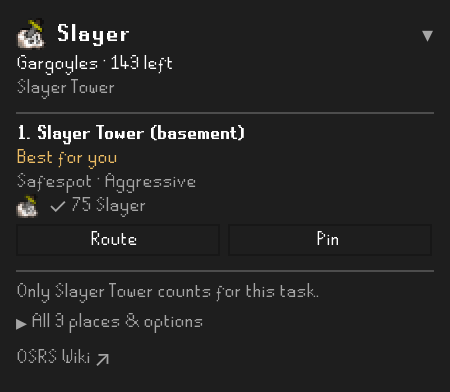
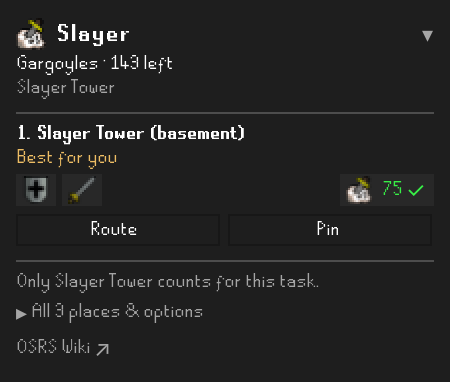
Draw a Slayer place's labels and level as pictures on one row
A place's labels were a sentence joined by dots, "Multi · best with an area attack · Cannon ·
Aggressive", and under it "✓ 92 Slayer" on a line of its own: three grey lines that every place
repeated, so comparing six places meant reading six sentences.

Each label is a chip now, a small picture on one row, and its tip says the label in full, reason
and all. Multi is the game's multi-combat swords and Cannon a cannon's barrels. The game has no
picture of its own for a safespot or for aggression, so those borrow the Defence skill's shield
and the Attack skill's sword until something better is drawn. Wilderness stays a word, in the
sidebar's pink. Unknown, the wiki not saying whether a place is multi-combat or takes a cannon,
has no chip: it marks nothing a player can use.

A chip is its word until its picture arrives, so a picture the client cannot give leaves the word
and never an empty box; with the picture it keeps only "in part" or "maybe", which a picture
cannot say.

A level a place asks for is a chip at the right of the same row: the skill's icon, the level, and
a tick in green, a cross in the refusal pink, or a question mark where the map could not confirm
it. The tip keeps the words the line had, "Needs 75 Slayer". A closed place still shows only what
it has yet to meet, and a quest or an item keeps its line under the row.

The Hub page's Slayer picture and the pass's own two are painted again. The renderer stands the
[…]

diff --git a/src/test/java/com/pbolduc/mapcompanion/SlayerCardTest.java b/src/test/java/com/pbolduc/mapcompanion/SlayerCardTest.java
@@ -296,9 +296,13 @@ public class SlayerCardTest
 		press("▸ All 3 places & options");
 		List<String> list = shown(panel);
 		assertEquals(list.toString(), 1, java.util.Collections.frequency(list, "Route"));
-		assertEquals(list.toString(), 1, java.util.Collections.frequency(list, "✓ 75 Slayer"));
+		/* The level it asks is a chip on the labels' row: the level and a tick, the skill left to its icon. */
+		assertEquals(list.toString(), 1, java.util.Collections.frequency(list, "75 ✓"));
+		assertEquals("✓ 75 Slayer", chip("75 ✓").getToolTipText());
+		assertEquals(net.runelite.client.ui.ColorScheme.PROGRESS_COMPLETE_COLOR, chip("75 ✓").getForeground());
+		assertTrue("after the labels, on their row: " + list, list.indexOf("75 ✓") == list.indexOf("Aggressive") + 1);
 		assertTrue(list.toString(), list.indexOf("Route") < list.indexOf("▸ 2. Slayer Tower (top floor)"));
-		assertTrue("a closed place keeps its labels: " + list, list.indexOf("Safespot · Aggressive") < list.lastIndexOf("Safespot · Aggressive"));
+		assertEquals("a closed place keeps its labels: " + list, 2, java.util.Collections.frequency(list, "Safespot"));
 
 		press("▸ 3. Slayer Tower (roof)");
 		List<String> roof = shown(panel);
@@ -317,6 +321,54 @@ public class SlayerCardTest
 	}
 
 	/**
+	 * A place's labels are chips, one each, rather than a sentence joined by dots, and a chip's tip
+	 * says its label in full. A chip is its word until its picture arrives, so a picture the client
+	 * cannot give leaves the word; with the picture it keeps no word, and a reason after a dot, "the
+	 * wiki's rate names no area attack", is the tip's to say on the open place as on a closed one.
+	 */
+	@Test
+	public void aPlacesLabelsAreChipsThatGiveTheirWordUpForAPicture() throws Exception
+	{
+		state.local(identity.id(), gargoyles(), "best", true);
+		received(places("best"), 1);
+		refresh();
+		press("▸ All 3 places & options");
+		press("▸ 3. Slayer Tower (roof)");
+		List<String> list = shown(panel);
+		assertTrue("no picture here, so every chip is its word: " + list, list.containsAll(Arrays.asList("Safespot", "Aggressive", "Multi")));
+		assertFalse("no dotted sentence is left: " + list, list.contains("Safespot · Aggressive"));
+		assertFalse(list.toString(), list.contains("The wiki's rate names no area attack"));
+		JLabel multi = chip("Multi");
+		assertEquals("Multi · the wiki's rate names no area attack", multi.getToolTipText());
+
+		SwingUtilities.invokeAndWait(() -> multi.setIcon(new javax.swing.ImageIcon(new java.awt.image.BufferedImage(1, 1, 2))));
+		assertEquals("the picture says it", "", multi.getText());
+		assertEquals("Multi · the wiki's rate names no area attack", multi.getToolTipText());
+	}
+
+	/**
+	 * "Unknown" is the wiki not saying whether a place is multi-combat, takes a cannon or has a
+	 * safespot. It marks nothing a player can use, so it gets no chip, and a place with no other
+	 * label gets no row of chips at all.
+	 */
+	@Test
+	public void anUnknownLabelGetsNoChip() throws Exception
+	{
+		RelayResponse.SlayerOptions places = places("best");
+		places.rows.get(0).labels = Arrays.asList("Aggressive", "Unknown");
+		places.rows.get(1).labels = Arrays.asList("Unknown");
+		state.local(identity.id(), gargoyles(), "best", true);
+		received(places, 1);
+		refresh();
+		press("▸ All 3 places & options");
+		List<String> list = shown(panel);
+		assertFalse(list.toString(), list.contains("Unknown"));
+		assertTrue(list.toString(), list.contains("Aggressive"));
+		assertEquals("the second place goes straight on to the third: " + list,
+			list.indexOf("▸ 2. Slayer Tower (top floor)") + 1, list.indexOf("▸ 3. Slayer Tower (roof)"));
+	}
+
+	/**
 	 * A name too long for the card's one line breaks before its last two words, which are what tell
 	 * one room of a cave from the next; left to wrap, one row ended "room" and its neighbour
 	 * "eastern room". A name that fits is left whole.
@@ -332,6 +384,32 @@ public class SlayerCardTest
 		assertTrue("still escaped", SlayerPanel.named("1. <b>x</b> y", metrics).contains("&lt;b&gt;"));
 	}
 
+	/** The chip that reads {@code word}, among what is shown. */
+	private JLabel chip(String word)
+	{
+		return chip(panel, word);
+	}
+
+	private static JLabel chip(Component component, String word)
+	{
+		if (component instanceof JLabel && word.equals(((JLabel) component).getText()) && component.isVisible())
+		{
+			return (JLabel) component;
+		}
+		if (component instanceof Container)
+		{
+			for (Component child : ((Container) component).getComponents())
+			{
+				JLabel found = chip(child, word);
+				if (found != null)
+				{
+					return found;
+				}
+			}
+		}
+		return null;
+	}
+
 	/**
 	 * A place that still asks for something says so while it is closed, since that is why its name is
 	 * grey; what a place asks and the player has waits for the open one.
@@ -345,7 +423,10 @@ public class SlayerCardTest
 		press("▸ All 3 places & options");
 		List<String> list = shown(panel);
 		assertTrue(list.toString(), list.contains("▸ 2. Slayer Tower (top floor)"));
-		assertEquals("on the open place and both closed ones: " + list, 3, java.util.Collections.frequency(list, "Needs 75 Slayer"));
+		/* A cross in the refusal pink beside the level, and the words it replaced as the tip. */
+		assertEquals("on the open place and both closed ones: " + list, 3, java.util.Collections.frequency(list, "75 ✗"));
+		assertEquals("Needs 75 Slayer", chip("75 ✗").getToolTipText());
+		assertEquals(MapCompanionPanel.REFUSED, chip("75 ✗").getForeground());
 	}
 
 	/**

diff --git a/src/main/java/com/pbolduc/mapcompanion/SlayerPanel.java b/src/main/java/com/pbolduc/mapcompanion/SlayerPanel.java
@@ -33,6 +33,8 @@ import java.util.*;
 import java.util.List;
 import javax.swing.*;
 import net.runelite.api.coords.WorldPoint;
+import net.runelite.api.gameval.ItemID;
+import net.runelite.api.gameval.SpriteID;
 import net.runelite.client.callback.ClientThread;
 import net.runelite.client.ui.ColorScheme;
 import net.runelite.client.util.LinkBrowser;
@@ -348,31 +350,100 @@ final class SlayerPanel extends JPanel
 		{
 			body.add(line(String.join(" · ", spot.kinds), MUTED));
 		}
-		if (!spot.labels.isEmpty())
-		{
-			body.add(line(String.join(" · ", spot.labels), MUTED));
-		}
+		Box row = chips(spot.labels);
+		/*
+		 * A level a place asks for is a chip at the row's right: the skill's icon, the level, and a
+		 * tick in green, a cross in the refusal pink or a question mark; the icon names the skill, and
+		 * the tip says it in words. What a place still asks is why it is grey, so a closed one says
+		 * it; what is met waits for the open one. A quest or an item has no icon, and keeps its line.
+		 */
+		row.add(Box.createHorizontalGlue());
+		List<JLabel> lines = new ArrayList<>();
 		for (RelayResponse.SlayerAsk ask : spot.asks)
 		{
-			/* What a place still asks is why it is grey, so a closed one says it; what is met waits for the open one. */
-			if (!opened && !"unmet".equals(ask.tier))
+			boolean unmet = "unmet".equals(ask.tier);
+			boolean unknown = "unknown".equals(ask.tier);
+			if (!opened && !unmet)
 			{
 				continue;
 			}
-			String words = ("unmet".equals(ask.tier) ? "Needs " : "unknown".equals(ask.tier) ? "Unconfirmed: " : "✓ ") + ask.text;
-			JLabel requirement = line(words,
-									  "unmet".equals(ask.tier) ? MapCompanionPanel.REFUSED : MUTED);
-			if (ask.skill != null)
+			String words = (unmet ? "Needs " : unknown ? "Unconfirmed: " : "✓ ") + ask.text;
+			if (ask.skill == null)
 			{
-				MapCompanionPanel.setWrapped(requirement, words, WIDTH - 16);
-				sprites.skill(requirement, ask.skill, 12);
+				lines.add(line(words, unmet ? MapCompanionPanel.REFUSED : MUTED));
+				continue;
 			}
-			body.add(requirement);
+			JLabel chip = pill(ask.text.replace(" " + ask.skill, "") + (unmet ? " ✗" : unknown ? " ?" : " ✓"),
+				unmet ? MapCompanionPanel.REFUSED : unknown ? MUTED : ColorScheme.PROGRESS_COMPLETE_COLOR, words);
+			sprites.skill(chip, ask.skill, 14);
+			row.add(Box.createHorizontalStrut(3));
+			row.add(chip);
 		}
+		if (row.getComponentCount() > 1)
+		{
+			body.add(MapCompanionPanel.left(row));
+		}
+		lines.forEach(body::add);
 		if (opened)
 		{
 			actions(spot.id, spot.id, spot.target, spot.name);
 		}
+	}
+
+	/**
+	 * A place's labels as chips, so six places are compared at a glance and not by reading six
+	 * sentences: one small picture each on a row, its label in full as its tip. Multi is the game's
+	 * multi-combat swords and Cannon a cannon's barrels. The game has no picture of its own for a
+	 * safespot or for aggression, so those borrow one: the Defence skill's shield and the Attack
+	 * skill's sword. Wilderness is its word in the sidebar's pink, as a Wilderness star site is.
+	 * Unknown, the wiki not saying whether a place is multi-combat or takes a cannon, has no chip: it
+	 * marks nothing a player can use, and the place's other chips say what is known.
+	 *
+	 * <p>A chip is its word until its picture arrives, so a picture the client cannot give leaves
+	 * the word and never an empty box. Then it keeps only what the picture cannot say, "in part" or
+	 * "maybe"; a reason after a dot, "best with an area attack", is left to the tip.
+	 */
+	private Box chips(List<String> labels)
+	{
+		Box row = Box.createHorizontalBox();
+		row.setBorder(BorderFactory.createEmptyBorder(2, 0, 1, 0));
+		for (String label : labels)
+		{
+			String word = label.split(" ")[0];
+			if ("Unknown".equals(word))
+			{
+				continue;
+			}
+			JLabel chip = pill(word, "Wilderness".equals(word) ? MapCompanionPanel.REFUSED : MUTED, label);
+			chip.addPropertyChangeListener("icon", e -> chip.setText(label.contains(" · ") ? "" : label.substring(word.length()).trim()));
+			if ("Multi".equals(word))
+			{
+				sprites.sprite(chip, SpriteID.OVERLAY_MULTIWAY, 14);
+			}
+			else if ("Cannon".equals(word))
+			{
+				sprites.item(chip, ItemID.TWPART3, 14);
+			}
+			else if ("Safespot".equals(word) || "Aggressive".equals(word))
+			{
+				sprites.skill(chip, "Safespot".equals(word) ? "Defence" : "Attack", 14);
+			}
+			row.add(chip);
+			row.add(Box.createHorizontalStrut(3));
+		}
+		return row;
+	}
+
+	/** A chip: a few words or a picture on the lighter grey, with what it means as its tip. */
+	private static JLabel pill(String text, Color ink, String tip)
+	{
+		JLabel chip = MapCompanionPanel.label(11f, ink);
+		chip.setText(text);
+		chip.setToolTipText(tip);
+		chip.setOpaque(true);
+		chip.setBackground(ColorScheme.DARK_GRAY_COLOR);
+		chip.setBorder(BorderFactory.createEmptyBorder(1, 3, 1, 3));
+		return chip;
 	}
 
 	/**

diff --git a/docs/review-evidence/sidebar-polish-2026-10-29/Sprites.java b/docs/review-evidence/sidebar-polish-2026-10-29/Sprites.java
@@ -41,6 +41,7 @@ final class Sprites
 		ITEMS.put(4151, "abyssal-whip");
 		ITEMS.put(net.runelite.api.gameval.ItemID.LUNAR_TABLET_CATHERBY_TELEPORT, "catherby-teleport-tablet");
 		ITEMS.put(net.runelite.api.gameval.ItemID.MYSTIC_ROBE_BOTTOM_DARK, "mystic-robe-bottom-dark");
+		ITEMS.put(net.runelite.api.gameval.ItemID.TWPART3, "cannon-barrels");
 		SPELLS.put(net.runelite.api.gameval.SpriteID.Magicon2.LUMBRIDGE_HOME_TELEPORT, "home-teleport");
 		SPELLS.put(net.runelite.api.gameval.SpriteID.MagicNecroOn.DRAYNOR_MANOR_TELEPORT, "draynor-manor-teleport");
 		CHIPS.put(net.runelite.api.gameval.ItemID.NZONE_TELETAB_RIMMINGTON, "teleport-tab-rimmington");
@@ -87,8 +88,12 @@ final class Sprites
 					show(label, star, box);
 					return;
 				}
-				/* The combat tab's crossed swords is the one sprite the website keeps under a name of its own. */
+				/*
+				 * The combat tab's crossed swords is the one sprite the website keeps under a name of its own.
+				 * It also stands in for the multi-combat zone's swords, which the website has no copy of.
+				 */
 				show(label, read(root, spriteId == net.runelite.api.gameval.SpriteID.SideIcons.COMBAT
+					|| spriteId == net.runelite.api.gameval.SpriteID.OVERLAY_MULTIWAY
 					? "osrs-icons/1x/skill-combat.png" : SPELLS.containsKey(spriteId)
 					? "osrs-icons/1x/" + SPELLS.get(spriteId) + ".png" : "osrs-icons/cache/" + spriteId + ".png"), box);
 			}

diff --git a/docs/sidebar-layout.md b/docs/sidebar-layout.md
@@ -1051,6 +1051,33 @@ opens Best for you again, so a card never shows a place with no Route.
 The labels stay on a closed place because they are what a player compares places by, *Safespot*
 against *Cannon*. Hiding them made a shorter list that had to be opened row by row to be read.
 
+### Labels as pictures
+
+A place's labels were a sentence joined by dots, *Multi · best with an area attack · Cannon ·
+Aggressive*, two lines of grey that six places repeated. Each label is a chip now, a small picture
+on the lighter grey, all on one row, and its tip says the label in full. The owner asked for the
+pictures without their words, with the tip for whoever wants them.
+
+*Multi* is the game's multi-combat swords (`SpriteID.OVERLAY_MULTIWAY`) and *Cannon* a cannon's
+barrels (`ItemID.TWPART3`). The game has no picture of its own for a safespot or for aggression,
+so those borrow one until something better is drawn: the Defence skill's shield and the Attack
+skill's sword. *Wilderness* stays a word, in the sidebar's pink, as a Wilderness star site is.
+*Unknown*, the wiki not saying whether a place is multi-combat or takes a cannon, has no chip, by
+the owner's choice: it marks nothing a player can use. A place without a chip for something may
+therefore be one the wiki does not know about, and its page is one press away on *OSRS Wiki ↗*.
+
+A chip is its word until its picture arrives, so a picture the client cannot give leaves the word
+and never an empty box. With the picture it keeps only what the picture cannot say, *in part* or
+*maybe*. A reason after a dot, *best with an area attack*, is the tip's to say.
+
+### A level as a chip
+
+*✓ 92 Slayer* was a line of its own under the chips. A level a place asks for is now a chip at the
+right of the same row: the skill's icon, the level, and a tick in green, a cross in the refusal
+pink, or a question mark where the map could not confirm it. The icon names the skill, so the
+word went, and the tip keeps the words the line had, *Needs 75 Slayer*. As before, a closed place
+shows only what it still asks. A quest or an item a place asks for has no icon and keeps its line.
+
 ### Names that break in one place
 
 A card's line fits about four words, and a place's name is the wiki's, often five or six:
@@ -1074,7 +1101,7 @@ card (`farmRunFolded`, `slayerFolded`, `portTasksFolded`, this plugin's own sett
 so a player on a task can put the other two away and find them so tomorrow. A folded card's run
 still answers the route keys. The cards stand eight pixels apart rather than three.
 
-On the scene above, Home is 1,133px tall before and 1,033 after with everything open, and 460 with
+On the scene above, Home is 1,133px tall before and 1,039 after with everything open, and 443 with
 the farm run and the port tasks folded and the Slayer list at its one place
 (`tasks-cards-after.png`, `tasks-cards-folded.png`).
 
@@ -1086,5 +1113,5 @@ the farm run and the port tasks folded and the Slayer list at its one place
 - **The options above the list.** A picker over the places reads as their caption, but it moves the
   open place down as the list opens and puts two controls between the task and its best place.
   They stay under the fold that opens them.
-- **A count beside a folded heading** (*Port tasks · 3*). The source budget has about 3,800
-  characters left after this pass; it was spent on the list instead.
+- **A count beside a folded heading** (*Port tasks · 3*). Not built: the source
+  budget was nearly spent when the list and its chips were drawn.

diff --git a/docs/review-evidence/tasks-cards-2026-11-11.md b/docs/review-evidence/tasks-cards-2026-11-11.md
@@ -15,10 +15,10 @@ The renderer has two scenes more for this, `tasks` and `tasks-folded`.
 | Picture | Scene | Painted |
 | --- | --- | --- |
 | `tasks-cards-before.png` | `tasks`, at `6923394`, before the change | 225×1133 |
-| `tasks-cards-after.png` | `tasks` | 225×1033 |
-| `tasks-cards-folded.png` | `tasks-folded` | 225×460 |
+| `tasks-cards-after.png` | `tasks` | 225×1039 |
+| `tasks-cards-folded.png` | `tasks-folded` | 225×443 |
 | `sidebar-route.png` | `route`, Home | 225×624 |
-| `sidebar-slayer.png` | `slayer-card`, the card alone | 225×196 |
+| `sidebar-slayer.png` | `slayer-card`, the card alone | 225×191 |
 | `sidebar-farm-run.png` | `farm-count`, the card alone | 225×311 |
 | `sidebar-port-tasks.png` | `port-run`, the card alone | 225×444 |
 
@@ -33,11 +33,20 @@ contract's Gargoyles list, as the four README pictures do.
 ## Limitations
 
 - Stand-ins: skill icons come from the website's copies of the game's sprites
-  (`OSRS_MAP_PUBLIC`), as in every picture this renderer paints.
+  (`OSRS_MAP_PUBLIC`), as in every picture this renderer paints. The *Multi* chip's swords are
+  the combat tab's, the website's `skill-combat.png`: it has no copy of the multi-combat zone's
+  own sprite, which is what the client is asked for. The *Cannon* chip's barrels are the website's
+  copy of that item's sprite, which sits smaller in its square than the client's own. The shield
+  and the sword are the website's copies of the Defence and Attack skill icons.
 - The arrows ▸ ▾ ↗ and the tick are drawn from a Linux fallback font and are a little heavier than
   in the pictures painted on Windows on 2 November. Which the client draws is a live check.
 - Nothing here was seen in a running client. The fold kept across a restart, a closed place opened
-  by its name, and the arrows' glyphs are in `docs/live-checks.md` under *The Tasks cards*.
+  by its name, the arrows' glyphs and the two chips' pictures are in `docs/live-checks.md` under
+  *The Tasks cards*.
+
+The three pictures with a Slayer place in them were painted again the same day, after its labels
+became chips and then pictures alone, its long names broke before their last two words, and the
+level it asks for joined the chips' row; the sizes above are theirs.
 
 ## The README, read on a phone
 

diff --git a/docs/live-checks.md b/docs/live-checks.md
@@ -179,7 +179,13 @@ steps wait on these readings (`osrs-stars-map/docs/plan-where-to-go-for-a-task.m
       card is still folded, and the *Slayer* card folded keeps *Gargoyles · 143 left* (or whichever
       task). With a task of four places or more, open the list and press a closed place's name: it
       opens in place of the one that was open, with the one **Route** and **Pin**. The renderer's
-      arrows are a Linux fallback font's; note whether ▸ and ▾ draw in the client's own.
+      arrows are a Linux fallback font's; note whether ▸ and ▾ draw in the client's own. On a
+      multi-combat place where a cannon is allowed, the first chip should be the crossed swords
+      the game draws in a multi-combat zone and the second a cannon's barrels, each with no word
+      once drawn and its label as the tip on hover; the renderer drew stand-ins for both. A chip
+      still showing its word a few seconds after the list opens is a picture the client did not
+      give: note which. The level chip at the row's right should read *92 ✓* in green, or
+      *75 ✗* in pink on a place above your level; note whether ✓ and ✗ draw in the client's font.
 - [ ] **Port task slots.** `PortTaskReader` is written from the Hub's Sailing and Port Tasks
       plugins and the game's script, not from a session; these settle it. With *Tasks and timers*
       sharing on:

diff --git a/docs/features.md b/docs/features.md
@@ -54,7 +54,10 @@ With **Tasks and timers** shared, Home lists the website's ranked places for you
 The counter follows kills in this client. Better places you cannot use yet stay visible with their
 requirements; expand the list for other places, ranking choices, the Wilderness filter and the
 kinds that count. One place is open at a time, the best one you can use to begin with: press
-another's name to open it instead. Wilderness places start hidden. **Route** plans from where
+another's name to open it instead. A place's labels are small pictures, and hovering one says it in
+words: crossed swords for multi-combat, a cannon's barrels where a cannon is allowed, a shield
+for a safespot and a sword for monsters that attack on sight. A level a place asks for sits at
+the right of that row, with a green tick when you have it and a red cross when you do not. Wilderness places start hidden. **Route** plans from where
 you stand; **Pin** makes the spot your destination in this client. Press the card's heading to
 fold it down to your task and its count; the Farm run and Port tasks cards fold the same way, and
 each stays as you left it. Locations and rates are from the

diff --git a/README.md b/README.md
@@ -52,7 +52,7 @@ it and the shops that sell it; pick one to plan the way there.
 ## Slayer in RuneLite
 
 <p>
-  <img src="docs/mockups/sidebar-slayer.png" width="225" alt="The RuneLite Slayer card: remaining task count, the best usable place open with its requirements and Route or Pin actions, and the link to every place">
+  <img src="docs/mockups/sidebar-slayer.png" width="225" alt="The RuneLite Slayer card: remaining task count, the best usable place open with a small picture for each of its labels, the Slayer level it asks with a green tick, and Route or Pin actions, and the link to every place">
 </p>
 
 Home ranks the places to do your Slayer task, keeps the ones you cannot use yet with what they
